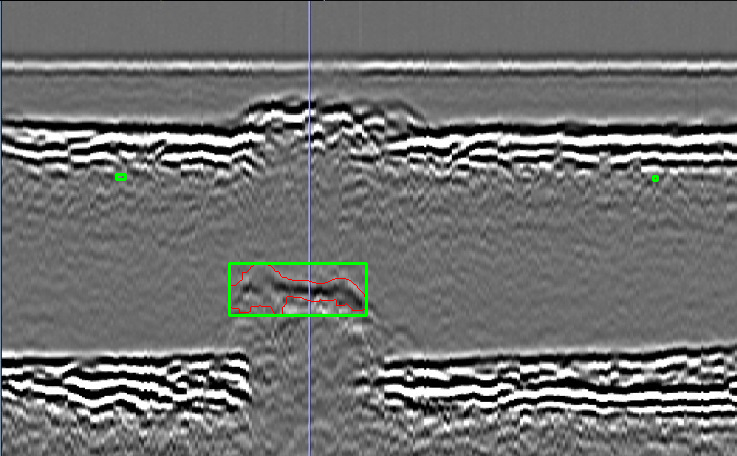
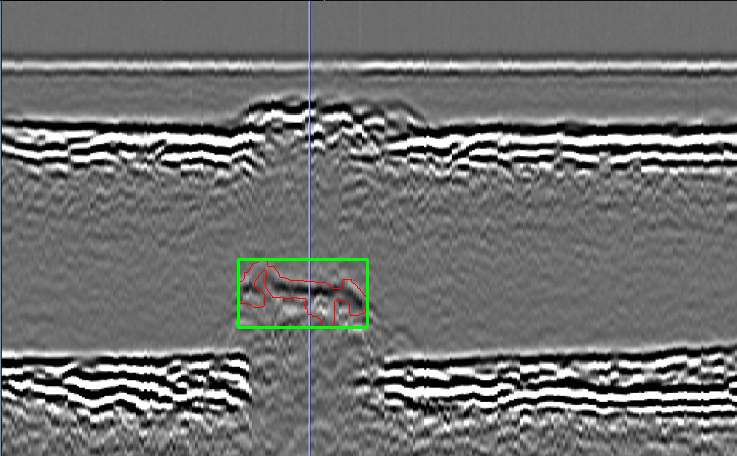
Up

Changed region(s): [[0.3121, 0.5526, 0.4993, 0.7368], [0.8738, 0.3684, 0.905, 0.3991], [0.156, 0.3684, 0.1872, 0.3991]]

diff --git a/inspection.py b/inspection.py
@@ -11,14 +11,14 @@ class Rectangle:
 
 def nothing(x):
     print(x)
-def is_inside_joint(x, y, x_min, x_max, y_min, y_max):     #  SZEROKOŚĆ WNĘTRZA ZŁĄCZA NA SZTYWNO !!!
+def is_inside_joint(x, y, x_min, x_max, y_min, y_max):
     if(y<y_max and y>y_min and x<x_max and x>x_min):
         return True
     else: return False
 def display_process(images):
     titles = ['ORIGINAL','FILTER', 'CANNY', 'DILATE', 'CONTOURS', 'SOBEL-COMBINED', 'CANNY']
     for i in range(5):
-        plt.subplot(3,2,i+1)
+        plt.subplot(3, 2, i+1)
         plt.imshow(images[i], 'gray')
         plt.title(titles[i])
         plt.xticks([])
@@ -38,7 +38,7 @@ def inspect(filepath, list_of_parameters):
     except IndexError:
         filter_size = 7
         canny_min = 30
-        canny_max = 125
+        canny_max = 255
         dilation_kernel_size = 3
         dilation_it = 4
         roi_x_min = 0
@@ -86,3 +86,11 @@ def inspect(filepath, list_of_parameters):
     filepath_inspected = filepath.replace(".png", "_inspected.png")
     cv.imwrite(filepath_inspected, img)
     return x_max, y_max, w_max, h_max, filepath_inspected, images
+#
+# throwMe=[3,30,255,1,1,2,538,20,121]
+# x_max, y_max, w_max, h_max, filepath_inspected, images = inspect("images\\tofd1.png", throwMe)
+# plt.subplot(1,1,1)
+# plt.imshow(images[4], 'gray')
+# plt.xticks([])
+# plt.yticks([])
+# plt.show()

diff --git a/program.py b/program.py
@@ -2,8 +2,8 @@ from tkinter import *
 import tkinter.messagebox
 import cv2 as cv
 from cv2 import *
-import  inspection as myModule
-import  sys
+import inspection as myModule
+import sys
 
 
 def nothing(x):
